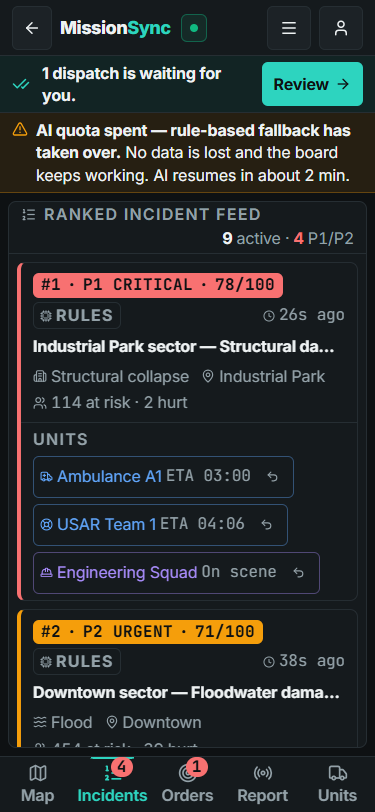
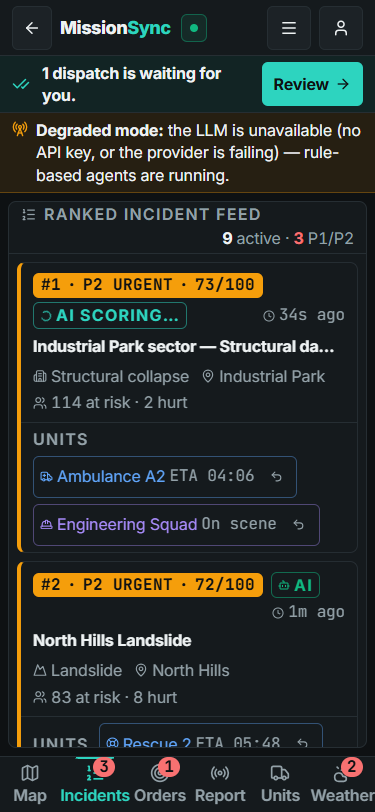
Weather gets its own section, feed sits left of the map, calmer header labels
The North Hills / Riverfront advisory chips no longer sit above the map. A Weather section (side rail on desktop,
a tab on phones) lists every zone with wind, rain, temperature and the forecast, warnings first, with a warning
count badge. On the Situation dashboard the ranked incident feed is now on the left and the map on the right.
The guest's first drill is called 'My first drill' instead of 'Demo drill', and the idle pipeline chip reads
'Agents ready'.

diff --git a/frontend/src/pages/DrillBoard.tsx b/frontend/src/pages/DrillBoard.tsx
@@ -21,8 +21,9 @@ import ReportIntake from '../components/ReportIntake'
 import ResourceBoard from '../components/ResourceBoard'
 import SideNav, { VIEWS, type View } from '../components/SideNav'
 import { FleetSkeleton } from '../components/Skeletons'
-import SystemBanners, { WeatherStrip } from '../components/SystemBanners'
+import SystemBanners from '../components/SystemBanners'
 import { Panel, PanelHeader } from '../components/ui'
+import WeatherPanel from '../components/WeatherPanel'
 
 // Leaflet is ~90 KB gzipped: load it after first paint so the shell appears sooner (most of all on phones).
 const loadMap = () => import('../components/MapPanel')
@@ -105,6 +106,7 @@ export default function DrillBoard({ source, title, leading, account, railAccoun
   const ended = snap.status === 'ended'
   const offline = snap.engine === 'remote' && snap.connection === 'offline'
   const p1p2 = snap.incidents.filter((i) => i.risk?.tier === 'P1' || i.risk?.tier === 'P2').length
+  const warnings = snap.weather.filter((w) => w.alert).length
   const exportUrl = source.exportUrl && m.drill_id != null ? source.exportUrl() : null
   const autoDispatch = snap.settings.auto_dispatch
   const inputsLocked = offline || loading || ended
@@ -114,7 +116,7 @@ export default function DrillBoard({ source, title, leading, account, railAccoun
     setToast({ id: toastId.current, tone, text })
   }, [])
 
-  // 1-4 jump between sections (desktop), unless the user is typing or a dialog is open.
+  // 1-5 jump between sections (desktop), unless the user is typing or a dialog is open.
   useEffect(() => {
     if (!desktop) return
     const onKey = (e: KeyboardEvent) => {
@@ -259,6 +261,7 @@ export default function DrillBoard({ source, title, leading, account, railAccoun
       </div>
     </Panel>
   )
+  const weatherPanel = <ErrorBoundary label="The weather"><WeatherPanel snap={snap} /></ErrorBoundary>
   const mapFrame = <div className="relative h-full min-h-0 overflow-hidden rounded-lg border border-line">{map}</div>
   const fleet = <FleetAndLog snap={snap} loading={loading} injections={m.injections} onRecall={actions.onRecall} disabled={busy || inputsLocked} />
 
@@ -300,15 +303,12 @@ export default function DrillBoard({ source, title, leading, account, railAccoun
 
       {desktop ? (
         <div className="flex min-h-0 flex-1">
-          <SideNav view={view} onChange={setView} badge={{ situation: p1p2, orders: snap.proposals.length }} footer={railAccount} />
+          <SideNav view={view} onChange={setView} badge={{ situation: p1p2, orders: snap.proposals.length, weather: warnings }} footer={railAccount} />
           <main id="main" className="min-h-0 min-w-0 flex-1 p-2">
             {view === 'situation' && (
-              <div className="flex h-full min-h-0 flex-col gap-2">
-                <WeatherStrip snap={snap} />
-                <div className="grid min-h-0 flex-1 grid-cols-[minmax(0,58fr)_minmax(0,42fr)] gap-2">
-                  {mapFrame}
-                  <div id="incident-feed" tabIndex={-1} className="min-h-0 outline-none">{feed}</div>
-                </div>
+              <div className="grid h-full min-h-0 grid-cols-[minmax(0,42fr)_minmax(0,58fr)] gap-2">
+                <div id="incident-feed" tabIndex={-1} className="min-h-0 outline-none">{feed}</div>
+                {mapFrame}
               </div>
             )}
             {view === 'orders' && (
@@ -329,18 +329,22 @@ export default function DrillBoard({ source, title, leading, account, railAccoun
                 {mapFrame}
               </div>
             )}
+            {view === 'weather' && (
+              <div className="grid h-full min-h-0 grid-cols-[minmax(0,1fr)_minmax(0,1fr)] gap-2">
+                {weatherPanel}
+                {mapFrame}
+              </div>
+            )}
           </main>
         </div>
       ) : (
         <>
           <main id="main" className="min-h-0 flex-1 p-2">
-            <div className={tab === 'map' ? 'flex h-full flex-col gap-2' : 'hidden'}>
-              <WeatherStrip snap={snap} />
-              <div className="relative min-h-0 flex-1 overflow-hidden rounded-lg border border-line">{map}</div>
-            </div>
+            <div className={tab === 'map' ? 'relative h-full overflow-hidden rounded-lg border border-line' : 'hidden'}>{map}</div>
             {tab === 'feed' && <div id="incident-feed" tabIndex={-1} className="h-full outline-none">{feed}</div>}
             {tab === 'orders' && <div className="h-full">{orders}</div>}
             {tab === 'report' && <div className="flex h-full flex-col gap-2 overflow-y-auto">{intake}<div className="min-h-[260px] flex-1">{logPanel}</div></div>}
+            {tab === 'weather' && <div className="h-full">{weatherPanel}</div>}
             {tab === 'fleet' && (
               <div className="flex h-full flex-col gap-2 overflow-y-auto">
                 <StatGrid snap={snap} />
@@ -348,7 +352,7 @@ export default function DrillBoard({ source, title, leading, account, railAccoun
               </div>
             )}
           </main>
-          <MobileTabs tab={tab} onChange={setTab} badge={{ feed: p1p2, orders: snap.proposals.length }} />
+          <MobileTabs tab={tab} onChange={setTab} badge={{ feed: p1p2, orders: snap.proposals.length, weather: warnings }} />
         </>
       )}
 

diff --git a/frontend/src/components/WeatherPanel.tsx b/frontend/src/components/WeatherPanel.tsx
@@ -1,0 +1,47 @@
+import { CloudRain, Thermometer, Wind } from 'lucide-react'
+import type { Snapshot, WeatherCell } from '../types'
+import { Panel, PanelHeader } from './ui'
+
+const words = (s: string) => s.replace(/_/g, ' ')
+
+function ZoneCard({ w }: { w: WeatherCell }) {
+  return (
+    <li className={`rounded-lg border px-3 py-2 ${w.alert ? 'border-warn/40 bg-warn/10' : 'border-line bg-hi'}`}>
+      <div className="flex items-center gap-2">
+        <b className="min-w-0 flex-1 truncate text-base text-ink">{w.zone}</b>
+        <span className={`shrink-0 rounded-md px-2 py-0.5 text-sm font-semibold ${w.alert ? 'bg-warn/20 text-warn' : 'text-ink-2'}`}>
+          {w.alert ? words(w.alert) : 'Clear'}
+        </span>
+      </div>
+      <dl className="mt-1.5 flex flex-wrap gap-x-4 gap-y-1 text-sm text-ink-2">
+        <div className="flex items-center gap-1.5"><Wind size={14} aria-hidden /><dt className="sr-only">Wind</dt><dd><span className="font-mono tnum">{Math.round(w.wind_kph)}</span> kph</dd></div>
+        <div className="flex items-center gap-1.5"><CloudRain size={14} aria-hidden /><dt className="sr-only">Rain</dt><dd><span className="font-mono tnum">{w.precipitation_mm_h.toFixed(1)}</span> mm/h</dd></div>
+        <div className="flex items-center gap-1.5"><Thermometer size={14} aria-hidden /><dt className="sr-only">Temperature</dt><dd><span className="font-mono tnum">{Math.round(w.temperature_c)}</span> °C</dd></div>
+      </dl>
+      {w.forecast_note && <p className="mt-1 text-sm text-ink">{w.forecast_note}</p>}
+    </li>
+  )
+}
+
+/** Simulated weather for every zone of the drill, warnings first. Lives in its own section so the map stays clear. */
+export default function WeatherPanel({ snap }: { snap: Snapshot }) {
+  const zones = [...snap.weather].sort((a, b) => Number(!!b.alert) - Number(!!a.alert))
+  const warnings = zones.filter((w) => w.alert).length
+  return (
+    <Panel className="h-full" label="Weather">
+      <PanelHeader
+        title="Weather by zone"
+        icon={<Wind size={15} />}
+        right={<span>{warnings > 0 ? `${warnings} warning${warnings === 1 ? '' : 's'}` : 'No warnings'}</span>}
+      />
+      <div className="min-h-0 flex-1 overflow-y-auto p-2">
+        {zones.length === 0 ? (
+          <p className="p-3 text-base text-ink-2">No weather has been reported for this drill yet.</p>
+        ) : (
+          <ul className="flex flex-col gap-2">{zones.map((w) => <ZoneCard key={w.zone} w={w} />)}</ul>
+        )}
+        <p className="px-1 pt-2 text-sm text-ink-2">Simulated conditions. Wind and rain slow or block some units, and the agents plan around them.</p>
+      </div>
+    </Panel>
+  )
+}

diff --git a/frontend/src/components/components.test.tsx b/frontend/src/components/components.test.tsx
@@ -16,7 +16,8 @@ import HeaderHud, { StatGrid, TelemetryBar, clockOf, statsOf } from './HeaderHud
 import IncidentCard from './IncidentCard'
 import Recommendations from './Recommendations'
 import ReportIntake from './ReportIntake'
-import SystemBanners, { WeatherStrip } from './SystemBanners'
+import SystemBanners from './SystemBanners'
+import WeatherPanel from './WeatherPanel'
 
 describe('Recommendations — the approval surface', () => {
   it('tells the operator nothing moves until they approve, and offers Approve all', async () => {
@@ -361,10 +362,31 @@ describe('SystemBanners', () => {
     expect(screen.getByText(/Degraded mode/)).toBeTruthy()
     rerender(<SystemBanners snap={{ ...s, engine: 'remote' }} />)
     expect(screen.queryByText(/Demo engine/)).toBeNull()                               // there is no demo engine any more
-    expect(screen.queryByLabelText(/Weather advisories/)).toBeNull()                 // weather lives with the map now
-    document.body.innerHTML = ''
-    render(<WeatherStrip snap={s} />)
-    expect(screen.getByLabelText(/Weather advisories/).textContent).toMatch(/wind/)
+    expect(screen.queryByLabelText(/Weather/)).toBeNull()                            // weather has its own section now
+  })
+})
+
+describe('WeatherPanel', () => {
+  it('lists every zone, warnings first, with wind, rain and temperature', () => {
+    const s = world().snap
+    const weather = [
+      { zone: 'Calm Bay', wind_kph: 6, wind_direction_deg: 90, precipitation_mm_h: 0, temperature_c: 21, alert: null, forecast_note: '' },
+      { zone: 'North Hills', wind_kph: 62, wind_direction_deg: 270, precipitation_mm_h: 3.5, temperature_c: 14, alert: 'high_wind', forecast_note: 'Gusts easing by dusk' },
+    ]
+    render(<WeatherPanel snap={{ ...s, weather }} />)
+    const region = screen.getByRole('region', { name: 'Weather' })
+    const zones = within(region).getAllByRole('listitem').map((li) => li.textContent ?? '')
+    expect(zones[0]).toContain('North Hills')                                         // the warning comes first
+    expect(zones[0]).toMatch(/high wind/)
+    expect(zones[0]).toMatch(/62.*kph/)
+    expect(zones[0]).toContain('Gusts easing by dusk')
+    expect(zones[1]).toContain('Clear')
+    expect(region.textContent).toContain('1 warning')
+  })
+
+  it('says so when there is no weather yet', () => {
+    render(<WeatherPanel snap={{ ...world().snap, weather: [] }} />)
+    expect(screen.getByText(/No weather has been reported/)).toBeTruthy()
   })
 })
 

diff --git a/frontend/src/components/SideNav.tsx b/frontend/src/components/SideNav.tsx
@@ -1,19 +1,20 @@
 import type { ReactNode } from 'react'
-import { Crosshair, Radio, Target, Truck, type LucideIcon } from 'lucide-react'
+import { CloudSun, Crosshair, Radio, Target, Truck, type LucideIcon } from 'lucide-react'
 
-export type View = 'situation' | 'orders' | 'report' | 'fleet'
+export type View = 'situation' | 'orders' | 'report' | 'fleet' | 'weather'
 
 export const VIEWS: Array<{ id: View; label: string; hint: string; Icon: LucideIcon }> = [
   { id: 'situation', label: 'Situation', hint: 'Map and ranked incidents', Icon: Crosshair },
   { id: 'orders', label: 'Orders', hint: 'Approve or reject proposed dispatches', Icon: Target },
   { id: 'report', label: 'Report', hint: 'Field report intake and the audit log', Icon: Radio },
   { id: 'fleet', label: 'Fleet', hint: 'Every unit, its status and assignment', Icon: Truck },
+  { id: 'weather', label: 'Weather', hint: 'Wind, rain and warnings by zone', Icon: CloudSun },
 ]
 
 /** Desktop navigation rail: one section per panel, the same mental model as the phone's bottom tabs. */
 export default function SideNav({ view, onChange, badge, footer }: { view: View; onChange: (v: View) => void; badge: Partial<Record<View, number>>; footer?: ReactNode }) {
   return (
-    <nav aria-label="Sections" className="flex w-[96px] shrink-0 flex-col gap-1 border-r border-line bg-panel px-2 py-3">
+    <nav aria-label="Sections" className="flex w-[96px] shrink-0 flex-col gap-1 overflow-y-auto border-r border-line bg-panel px-2 py-3">
       {VIEWS.map(({ id, label, hint, Icon }, i) => {
         const active = view === id
         const n = badge[id]
@@ -35,7 +36,7 @@ export default function SideNav({ view, onChange, badge, footer }: { view: View;
             {n != null && n > 0 && (
               <span className="absolute right-1.5 top-1 min-w-[22px] rounded-full bg-p1 px-1 text-center font-mono text-base font-bold leading-5 text-on-tier tnum">
                 {n}
-                <span className="sr-only"> {id === 'orders' ? 'awaiting approval' : 'P1/P2'}</span>
+                <span className="sr-only"> {id === 'orders' ? 'awaiting approval' : id === 'weather' ? 'weather warnings' : 'P1/P2'}</span>
               </span>
             )}
           </button>

diff --git a/frontend/src/components/SystemBanners.tsx b/frontend/src/components/SystemBanners.tsx
@@ -1,4 +1,4 @@
-import { CloudOff, RadioTower, TriangleAlert, Wind } from 'lucide-react'
+import { CloudOff, RadioTower, TriangleAlert } from 'lucide-react'
 import type { ReactNode } from 'react'
 import type { Snapshot } from '../types'
 
@@ -16,7 +16,7 @@ function Banner({ tone, icon, children }: { tone: 'warn' | 'bad' | 'info'; icon:
   )
 }
 
-/** The non-blocking alert slot under the HUD: connectivity, engine state, quota, weather. */
+/** The non-blocking alert slot under the HUD: connectivity, engine state, quota. */
 export default function SystemBanners({ snap }: { snap: Snapshot }) {
   const m = snap.metrics
   const offline = snap.engine === 'remote' && snap.connection === 'offline'
@@ -38,26 +38,6 @@ export default function SystemBanners({ snap }: { snap: Snapshot }) {
           <b>Degraded mode:</b> the LLM is unavailable (no API key, or the provider is failing) — rule-based agents are running.
         </Banner>
       )}
-    </div>
-  )
-}
-
-/** Simulated weather advisories. Shown where they matter (the map), not as a permanent global strip. */
-export function WeatherStrip({ snap }: { snap: Snapshot }) {
-  const alerts = snap.weather.filter((w) => w.alert)
-  if (alerts.length === 0) return null
-  return (
-    <div className="flex shrink-0 flex-wrap gap-2" role="status" aria-label="Weather advisories (simulated)">
-      {alerts.map((w) => (
-        <span key={w.zone} className="inline-flex max-w-full items-center gap-1.5 rounded-md border border-warn/40 bg-warn/10 px-2 py-0.5 text-sm text-warn">
-          <Wind size={14} aria-hidden />
-          <b className="font-semibold">{w.zone}</b>
-          <span className="text-ink-2">
-            {(w.alert ?? '').replace(/_/g, ' ')} · wind <span className="font-mono tnum">{Math.round(w.wind_kph)}</span> kph
-            {w.forecast_note ? ` · ${w.forecast_note}` : ''}
-          </span>
-        </span>
-      ))}
     </div>
   )
 }

diff --git a/frontend/src/components/sidenav.test.tsx b/frontend/src/components/sidenav.test.tsx
@@ -57,11 +57,14 @@ describe('Board navigation (desktop layout)', () => {
     })) as unknown as typeof window.matchMedia
   })
 
-  it('shows one section per panel and switches by click and by the 1-4 keys', async () => {
+  it('shows one section per panel and switches by click and by the 1-5 keys', async () => {
     board()
     await screen.findByRole('navigation', { name: 'Sections' })
     // Situation (default): map + ranked feed, but not the intake or fleet panels.
-    expect(await screen.findByRole('region', { name: /Ranked incident feed|incident feed/i })).toBeTruthy()
+    const feed = await screen.findByRole('region', { name: /Ranked incident feed|incident feed/i })
+    expect(feed).toBeTruthy()
+    const mapBox = document.querySelector('.leaflet-container, [aria-label="Loading the map"]')?.closest('div.relative')
+    if (mapBox) expect(feed.compareDocumentPosition(mapBox) & Node.DOCUMENT_POSITION_FOLLOWING).toBeTruthy()   // the feed is on the left, the map after it
     expect(screen.queryByLabelText('Field report')).toBeNull()
 
     await userEvent.click(screen.getByRole('button', { name: /^Orders/ }))
@@ -75,6 +78,12 @@ describe('Board navigation (desktop layout)', () => {
     await userEvent.keyboard('4')
     expect(await screen.findByRole('region', { name: 'Resource fleet' })).toBeTruthy()
     expect(screen.queryByLabelText('Field report')).toBeNull()
+
+    await userEvent.keyboard('5')
+    const weather = await screen.findByRole('region', { name: 'Weather' })
+    expect(weather).toBeTruthy()
+    expect(screen.getByRole('button', { name: /^Weather/ }).getAttribute('aria-current')).toBe('page')
+    expect(screen.queryByLabelText(/Weather advisories/)).toBeNull()
 
     await userEvent.keyboard('1')
     expect(screen.getByRole('button', { name: /^Situation/ }).getAttribute('aria-current')).toBe('page')

diff --git a/frontend/src/components/MobileTabs.tsx b/frontend/src/components/MobileTabs.tsx
@@ -1,6 +1,6 @@
-import { ListOrdered, Map as MapIcon, Radio, Target, Truck, type LucideIcon } from 'lucide-react'
+import { CloudSun, ListOrdered, Map as MapIcon, Radio, Target, Truck, type LucideIcon } from 'lucide-react'
 
-export type MobileTab = 'map' | 'feed' | 'orders' | 'report' | 'fleet'
+export type MobileTab = 'map' | 'feed' | 'orders' | 'report' | 'fleet' | 'weather'
 
 const TABS: Array<{ id: MobileTab; label: string; Icon: LucideIcon }> = [
   { id: 'map', label: 'Map', Icon: MapIcon },
@@ -8,6 +8,7 @@ const TABS: Array<{ id: MobileTab; label: string; Icon: LucideIcon }> = [
   { id: 'orders', label: 'Orders', Icon: Target },
   { id: 'report', label: 'Report', Icon: Radio },
   { id: 'fleet', label: 'Units', Icon: Truck },
+  { id: 'weather', label: 'Weather', Icon: CloudSun },
 ]
 
 /** Bottom navigation for phones and small tablets: thumb-reachable, 56px tall. */

diff --git a/frontend/src/components/HeaderHud.tsx b/frontend/src/components/HeaderHud.tsx
@@ -79,9 +79,9 @@ export function EngineChips({ snap, className = '' }: { snap: Snapshot; classNam
   return (
     <div className={`shrink-0 items-center gap-1.5 ${className}`}>
       <Chip tone={mode.tone} title={mode.title}>{mode.label}</Chip>
-      <Chip className="w-[150px] justify-start" title="What the AI pipeline is doing right now">
+      <Chip className="w-[150px] justify-start" title="What the AI agents are doing right now (Agents ready = waiting for the next report)">
         {busy ? <Loader2 size={13} className="animate-spin text-accent" aria-hidden /> : <span className="h-1.5 w-1.5 rounded-full bg-muted" aria-hidden />}
-        <span className="truncate">{busy ? STAGE_LABEL[snap.pipeline.stage] : 'idle'}</span>
+        <span className="truncate">{busy ? STAGE_LABEL[snap.pipeline.stage] : 'Agents ready'}</span>
       </Chip>
     </div>
   )

diff --git a/frontend/src/test-utils/fakeApi.ts b/frontend/src/test-utils/fakeApi.ts
@@ -69,7 +69,7 @@ export class FakeApi {
     }
     if (key === 'POST /api/auth/demo') {
       if (this.demoFails) return fail(503, 'degraded', 'The demo is busy right now. Please try again in a few minutes, or create a free account.')
-      const d = this.make('Demo drill', 'Real xBD damage scenarios with the AI agents. This temporary account is deleted after 24 hours.')
+      const d = this.make('My first drill', 'Real xBD damage scenarios with the AI agents. This temporary account is deleted after 24 hours.')
       this.drills.push(d)
       this.signedIn = { id: 99, email: 'guest-ab12cd@guest.missionsync.invalid', display_name: 'Demo guest', created_at: new Date().toISOString(), is_guest: true }
       return json({ user: this.signedIn, drill: d, expires_in_hours: 24 }, 201)

diff --git a/frontend/src/pages/pages.test.tsx b/frontend/src/pages/pages.test.tsx
@@ -96,7 +96,7 @@ describe('protected routes', () => {
     visit('/demo')
     await waitFor(() => expect(window.location.pathname).toBe('/drills/1'))
     expect(api.calls.some((c) => c.path === '/api/auth/demo' && c.method === 'POST')).toBe(true)
-    expect(api.drills.map((d) => d.name)).toEqual(['Demo drill'])
+    expect(api.drills.map((d) => d.name)).toEqual(['My first drill'])
     expect(api.signedIn?.is_guest).toBe(true)
     expect(await screen.findByText('Temporary demo account.')).toBeTruthy()           // says plainly that it is temporary
     expect(screen.getByRole('link', { name: 'Create an account' }).getAttribute('href')).toBe('/signup')

diff --git a/backend/tests/test_guest_demo.py b/backend/tests/test_guest_demo.py
@@ -31,7 +31,7 @@ def test_one_click_creates_a_guest_with_a_ready_drill_and_signs_it_in(api) -> No
     assert r.status_code == 201
     body = r.json()
     assert body["user"]["is_guest"] is True and body["user"]["email"].endswith("@guest.missionsync.invalid")
-    assert body["drill"]["name"] == "Demo drill" and "deleted after 24 hours" in body["drill"]["notes"]
+    assert body["drill"]["name"] == "My first drill" and "deleted after 24 hours" in body["drill"]["notes"]
     cookie = r.headers["set-cookie"].lower()
     assert "httponly" in cookie and "samesite=lax" in cookie and f"max-age={24 * 3600}" in cookie
     assert c.get("/api/auth/session").json()["user"]["is_guest"] is True            # signed in straight away
@@ -73,7 +73,7 @@ def test_two_guests_never_see_each_others_drills(api) -> None:
 
 def test_a_guest_keeps_fewer_drills(api) -> None:
     c, _ = api
-    c.post("/api/auth/demo")                                                         # already owns the "Demo drill"
+    c.post("/api/auth/demo")                                                         # already owns the "My first drill"
     assert c.post("/api/drills", json={"name": "Second"}).status_code == 201
     r = c.post("/api/drills", json={"name": "Third"})
     assert r.status_code == 409 and "demo account can keep up to 2" in r.json()["error"]

diff --git a/backend/missionsync/routers/auth.py b/backend/missionsync/routers/auth.py
@@ -65,7 +65,7 @@ async def demo(request: Request, response: Response, svc: Services = Depends(get
     password_hash = await asyncio.to_thread(hash_password, secrets.token_urlsafe(24))
     user = await asyncio.to_thread(svc.users.create, f"guest-{secrets.token_hex(6)}@{GUEST_DOMAIN}", "Demo guest", password_hash, True)
     drill = await asyncio.to_thread(
-        svc.drills.create, user.id, "Demo drill",
+        svc.drills.create, user.id, "My first drill",
         f"Real xBD damage scenarios with the AI agents. This temporary account is deleted after {svc.settings.guest_hours} hours.",
         svc.settings.guest_max_drills,
     )
